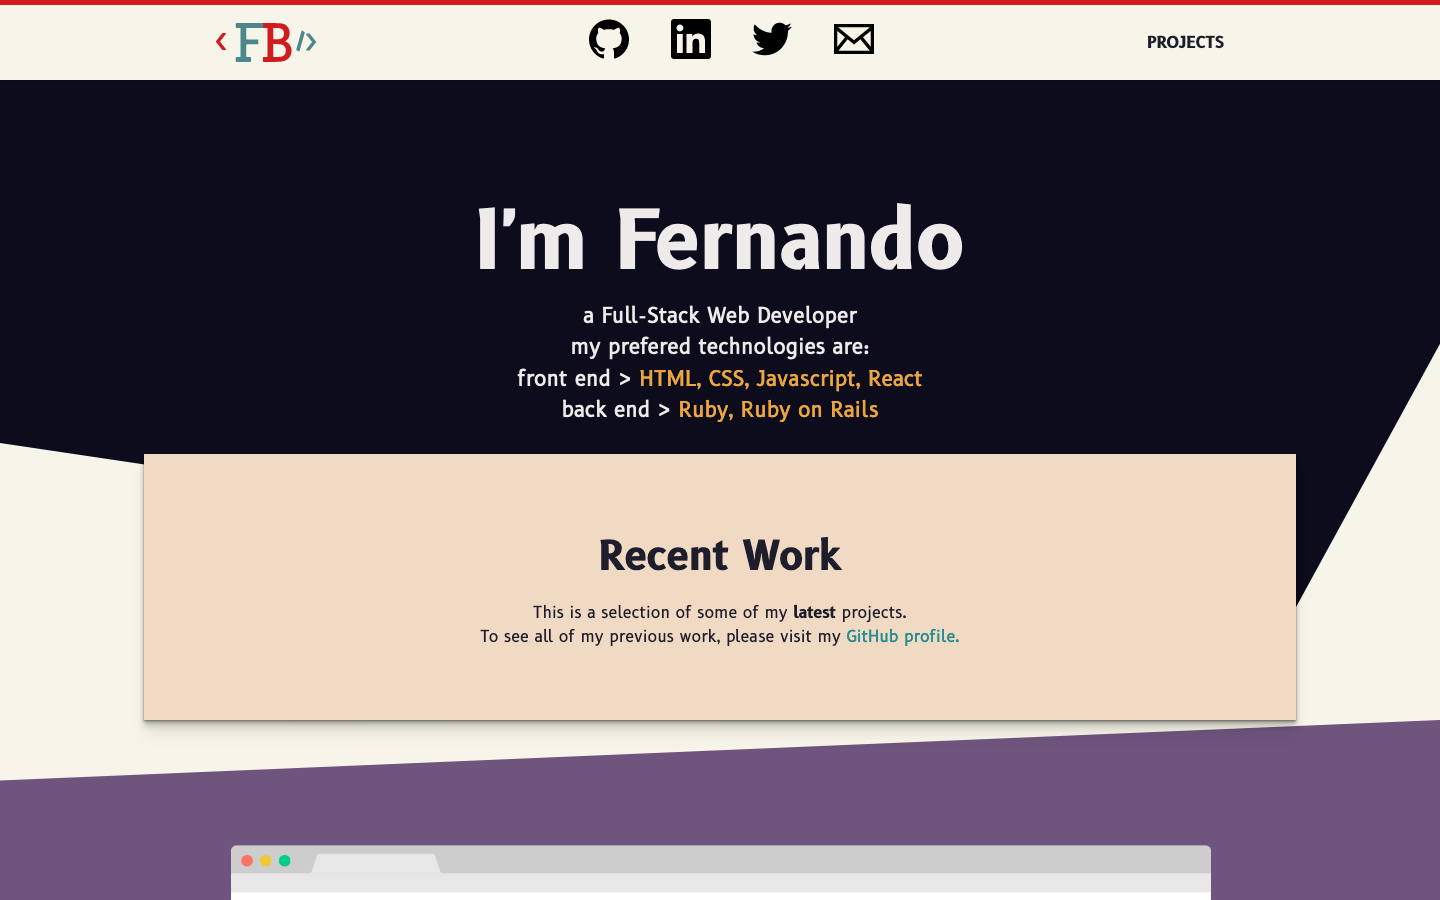
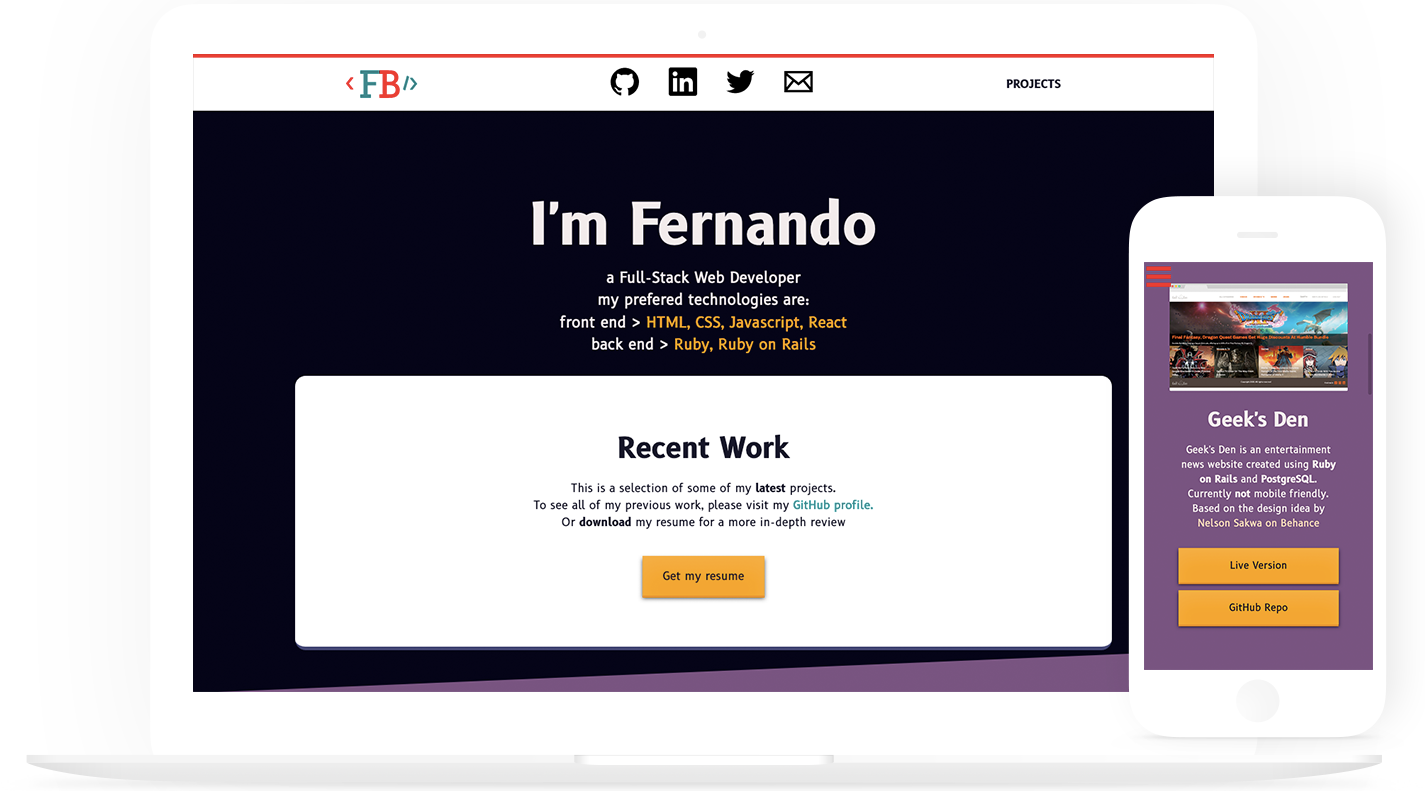
Update background colors and clip path. Update README.md

diff --git a/styles/style.css b/styles/style.css
@@ -42,7 +42,7 @@ body {
   line-height: 1.5;
   font-family: 'B612', sans-serif;
   color: var(--text-color);
-  background-color: var(--bg-color-lighter);
+  background-color: var(--bg-color-dark);
 }
 
 /* A elements that don't have a class get default styles */
@@ -404,9 +404,6 @@ footer {
   min-height: 350px;
   min-width: 600px;
   overflow-x: hidden;
-  -webkit-clip-path: polygon(100% 0, 100% 38%, 89% 73%, 0 50%, 0 0);
-  clip-path: polygon(100% 0, 100% 38%, 89% 73%, 0 50%, 0 0);
-  background-color: var(--bg-color-dark);
   padding-bottom: 30%;
 }
 
@@ -418,16 +415,18 @@ footer {
 .recent-work-desc {
   color: var(--text-color-dark);
   background-color: var(--bg-color-lighter);
+  border-bottom: 5px solid var(--bg-color-light-dark);
   text-align: center;
   padding: 5% 15%;
   margin-top: -28%;
-  box-shadow: 0 1px 1px rgba(0,0,0,0.25),
-              0 2px 2px rgba(0,0,0,0.2),
-              0 4px 4px rgba(0,0,0,0.15),
-              0 8px 8px rgba(0,0,0,0.1),
-              0 16px 16px rgba(0,0,0,0.05);
   z-index: 1;
   width: 80%;
+}
+
+.recent-work-desc,
+.contact {
+  border-bottom: 5px solid var(--bg-color-light-dark);
+  border-radius: 15px;
 }
 
 .gif-container {
@@ -451,16 +450,23 @@ footer {
   background-color: var(--bg-color-light);
 }
 
+.conference-container,
+.tweetbot-container,
+.newsweek-container {
+  margin-top: -5%;
+}
+
 .geeksden-container,
 .conference-container {
-  -webkit-clip-path: polygon(100% 0, 100% 95%, 0 100%, 0 5%);
-  clip-path: polygon(100% 0, 100% 95%, 0 100%, 0 5%);
+  -webkit-clip-path: polygon(100% 0, 100% 100%, 0 100%, 0 5%); 
+  clip-path: polygon(100% 0, 100% 100%, 0 100%, 0 5%);
 }
+  
 
 .tweetbot-container,
 .newsweek-container {
-  -webkit-clip-path: polygon(100% 5%, 100% 100%, 0 95%, 0 0);
-  clip-path: polygon(100% 5%, 100% 100%, 0 95%, 0 0);
+  -webkit-clip-path: polygon(100% 5%, 100% 100%, 0 100%, 0 0);
+  clip-path: polygon(100% 5%, 100% 100%, 0 100%, 0 0);
 }
 
 .mockup-pics {

diff --git a/index.html b/index.html
@@ -11,7 +11,7 @@
     <meta charset="UTF-8">
     <meta name="viewport" content="width=device-width, initial-scale=1.0">
     <meta property="og:title" content="Fernando Bahamondes Portfolio">
-    <meta name="image" property="og:image" content="https://i.imgur.com/gdQTXxX.png">
+    <meta name="image" property="og:image" content="https://i.imgur.com/EeP351g.png">
     <meta property="og:description" content="Personal portfolio">
     <meta property="og:url" content="https://fernando-bc.com/" />
     <link rel="stylesheet" href="./styles/style.css">

diff --git a/styles/media.css b/styles/media.css
@@ -86,10 +86,7 @@
     margin-left: 0;
     margin-top: 5%;
   }
-  .section-about {
-    -webkit-clip-path: polygon(100% 0, 100% 38%, 89% 73%, 0 80%, 0 0);
-    clip-path: polygon(100% 0, 100% 38%, 89% 73%, 0 80%, 0 0);
-  }
+  
   .project-title {
     font-size: 2em;
   }
@@ -97,6 +94,12 @@
   .mockup-pics,
   .gif-container  {
     margin-top: 15%;
+  }
+
+  .conference-container,
+  .tweetbot-container,
+  .newsweek-container {
+    margin-top: -12%;
   }
 
   .twitter-gif {

diff --git a/README.md b/README.md
@@ -12,12 +12,11 @@ My Personal Portfolio. A responsive website constructed with HTML5, CSS and a ta
 ## Screenshot
 
 ![Screenshot_full](./images/laptop_screen.png)
-![Screenshot_mobile](./images/mob-screen.png)
 
 
 ## Live Demo
 
-https://fernando-bc.netlify.app/
+https://fernando-bc.com/
 
 ## Authors
 
